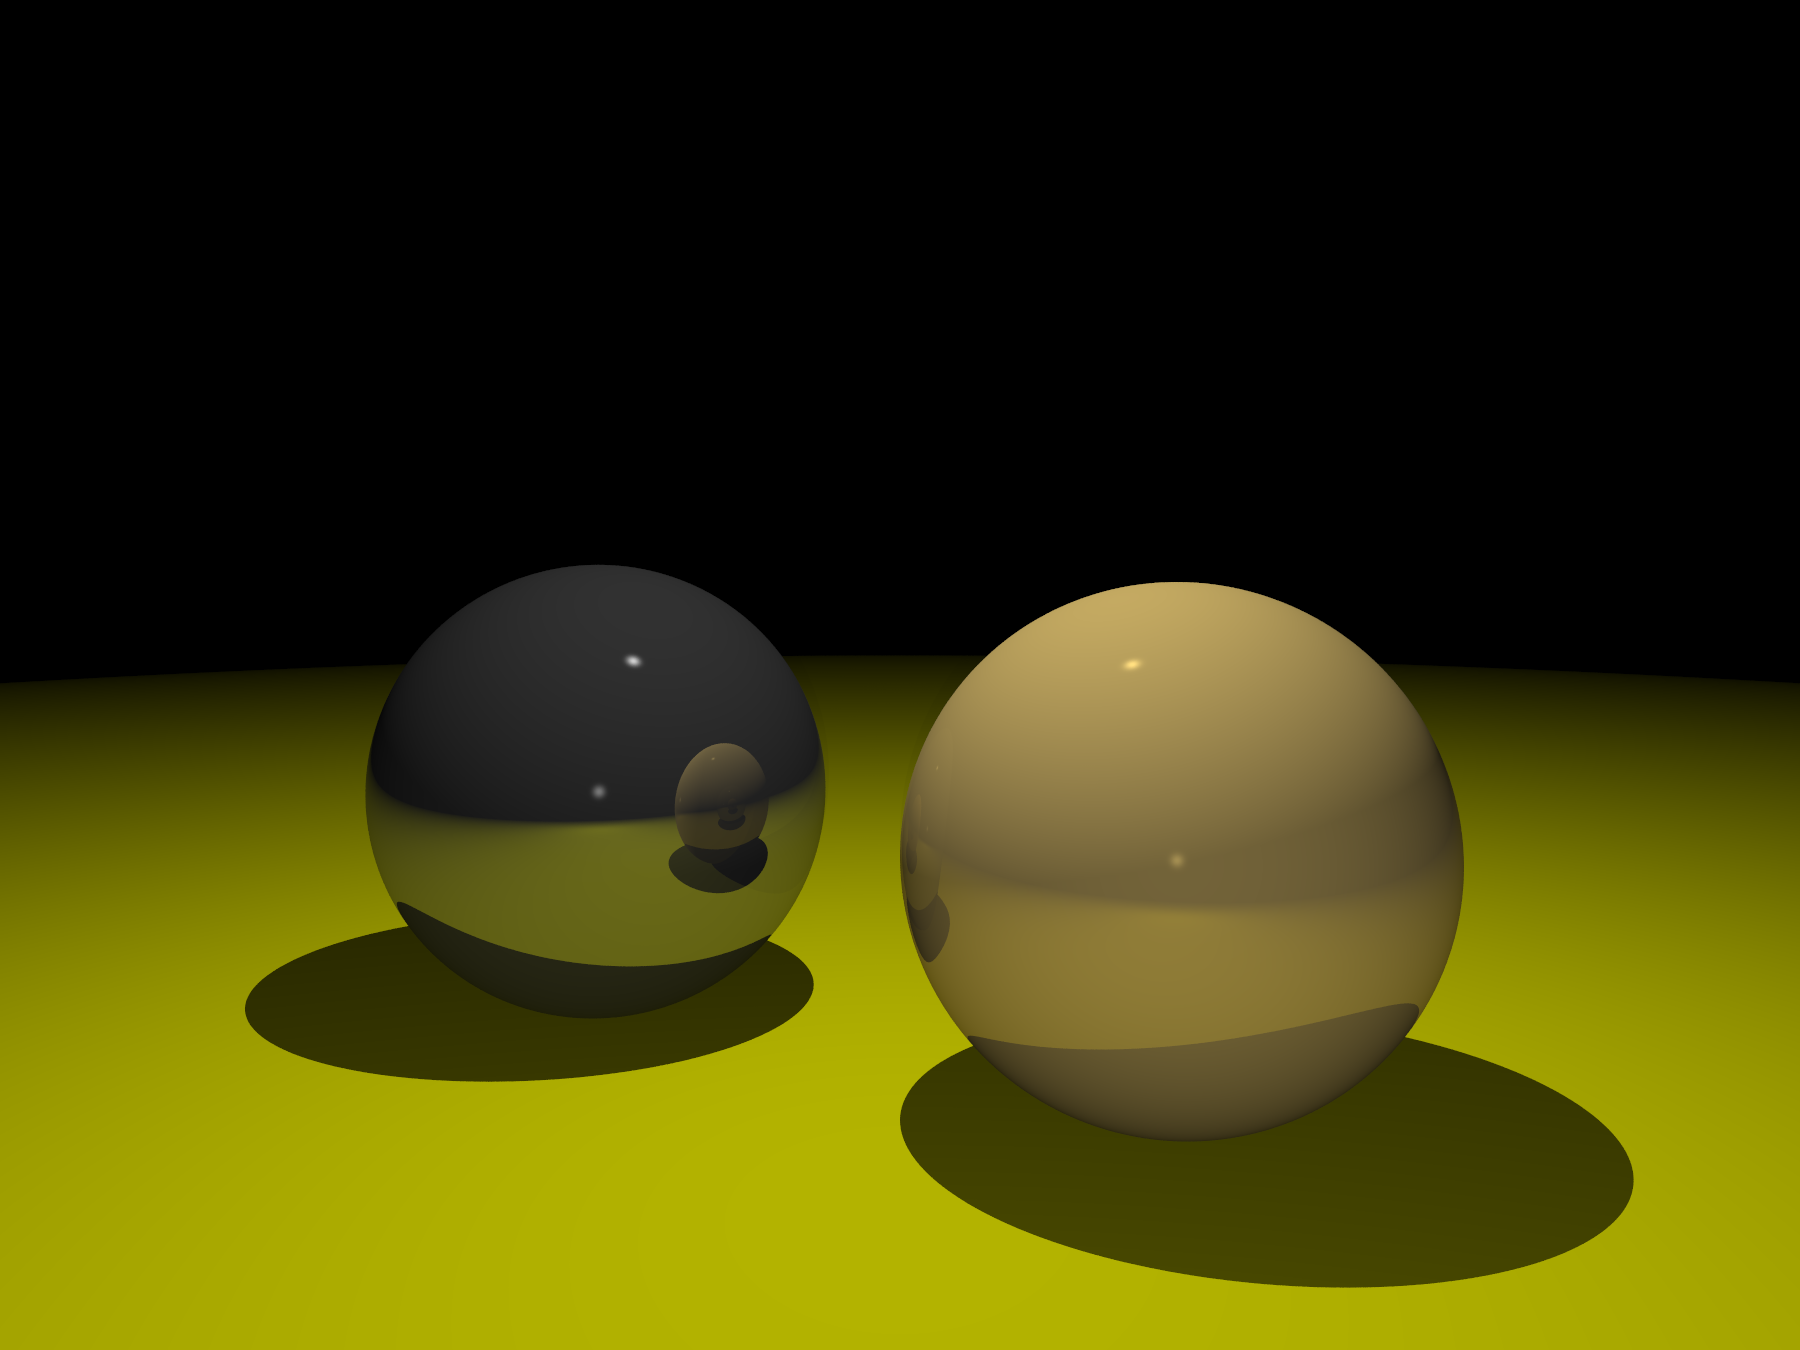
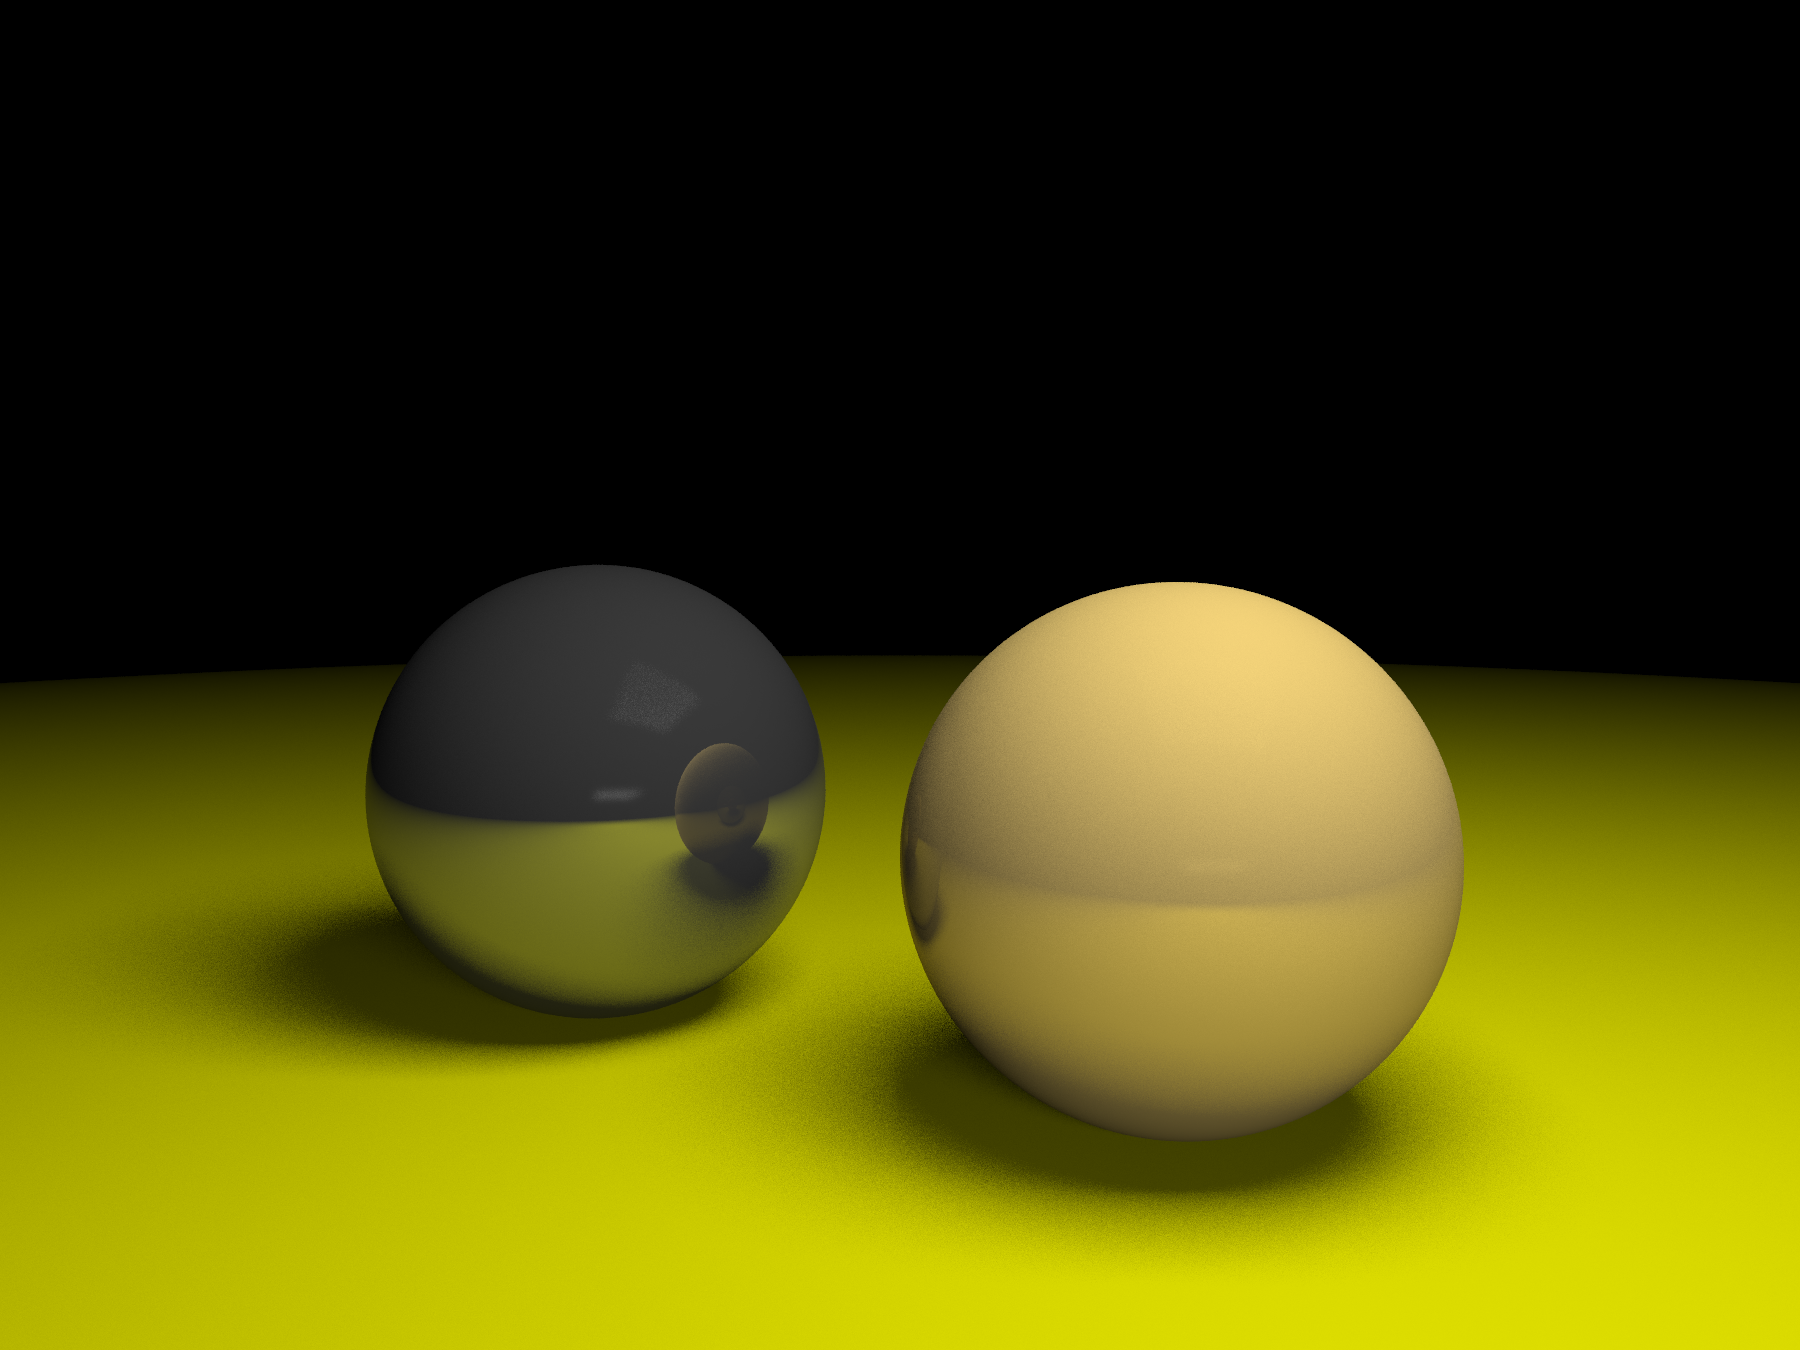
raytracer: area light

Changed region(s): [[0.0622, 0.4044, 1.0, 1.0], [0.4978, 0.5289, 0.5289, 0.6222]]

diff --git a/src/scene.cpp b/src/scene.cpp
@@ -14,6 +14,17 @@ void scene::add_light(const point3& position, const color3& intensity) {
     );
 }
 
+void scene::add_area_light(const point3& position, const color3& intensity, const vec& u, const vec& v) {
+   area_lights.push_back(
+       std::make_shared<area_light>(
+           position,
+           intensity,
+           u,
+           v
+       )
+   );
+}
+
 void scene::add_sphere(const point3& center, double radius, const std::string& name) {
     objects.push_back(
         std::make_shared<sphere>(
@@ -54,45 +65,47 @@ color3 scene::illuminance_v2(const ray& camera_ray, int depth) {
         illum += 0.333 * specular_color * illuminance_v2(rec_value.get_specular_reflected(camera_ray), depth - 1);
     }
 
-    for (auto light : lights) {
-        auto lamp_intensity = light->intensity;
-        auto lamp_vec = light->position - point;
-        auto lamp_ray = ray(point, unit_vector(lamp_vec));
+    for (auto area_light : area_lights) {
+        for (auto light : area_light->sample()) {
+            auto lamp_intensity = light->intensity;
+            auto lamp_vec = light->position - point;
+            auto lamp_ray = ray(point, unit_vector(lamp_vec));
 
-        auto R = lamp_vec.length();
-        auto attenuation = 1.0 / (1.0 + 0.22 * R + 0.20 * R * R);
+            auto R = lamp_vec.length();
+            auto attenuation = 1.0 / (1.0 + 0.22 * R + 0.20 * R * R);
 
-        std::optional<intersection> shadow = hit(lamp_ray, interval{ 0.001, R });
+            std::optional<intersection> shadow = hit(lamp_ray, interval{ 0.001, R });
 
-        if (shadow.has_value()) {
-            continue;
-        }
+            if (shadow.has_value()) {
+                continue;
+            }
 
-        if (ambient_color.length_squared() > 0.001) {
-            illum += ambient_color;
-        }
+            if (ambient_color.length_squared() > 0.001) {
+                illum += ambient_color;
+            }
 
-        if (emissive_color.length_squared() > 0.001) {
-            illum += emissive_color;
-        }
+            if (emissive_color.length_squared() > 0.001) {
+                illum += emissive_color;
+            }
 
-        if (specular_color.length_squared() > 0.001) {
-            auto reflected = rec_value.get_specular_reflected(camera_ray);
+            if (specular_color.length_squared() > 0.001) {
+                auto reflected = rec_value.get_specular_reflected(camera_ray);
 
-            illum += attenuation
-                * lamp_intensity
-                * specular_color
-                * std::pow(
-                    std::max(0.0, dot(lamp_ray.direction(), reflected.direction())),
-                    specular_exponent
-                );
-        }
+                illum += attenuation
+                    * lamp_intensity
+                    * specular_color
+                    * std::pow(
+                        std::max(0.0, dot(lamp_ray.direction(), reflected.direction())),
+                        specular_exponent
+                    );
+            }
 
-        if (diffuse_color.length_squared() > 0.001) {
-            illum += attenuation
-                * lamp_intensity
-                * diffuse_color
-                * std::max(0.0, dot(lamp_ray.direction(), rec_value.normal));
+            if (diffuse_color.length_squared() > 0.001) {
+                illum += attenuation
+                    * lamp_intensity
+                    * diffuse_color
+                    * std::max(0.0, dot(lamp_ray.direction(), rec_value.normal));
+            }
         }
     }
 

diff --git a/src/tech/parser.h b/src/tech/parser.h
@@ -94,7 +94,30 @@ void parser::read_objects(scene& scene, const std::string& filename) {
             }
 
             // Area Light (non-standard)
-           if (tokens[0] == "A") {}
+           if (tokens[0] == "A") {
+                scene.add_area_light(
+                    point3(
+                        std::stod(tokens[1]),   // x
+                        std::stod(tokens[2]),   // y
+                        std::stod(tokens[3])    // z
+                    ),
+                    color3(
+                        std::stod(tokens[4]),   // R
+                        std::stod(tokens[5]),   // G
+                        std::stod(tokens[6])    // B
+                    ),
+                    vec(
+                        std::stod(tokens[7]),   // u
+                        std::stod(tokens[8]),
+                        std::stod(tokens[9])
+                    ),
+                    vec(
+                        std::stod(tokens[10]),  // v
+                        std::stod(tokens[11]),
+                        std::stod(tokens[12])
+                    )
+                );
+           }
 
             // Vertex
             if (tokens[0] == "v") {}

diff --git a/src/scene.h b/src/scene.h
@@ -11,6 +11,7 @@
 #include "material.h"
 #include "sphere.h"
 #include "light.h"
+#include "area_light.h"
 
 const auto MODE_DEPT = "dept";
 const auto MODE_NORM = "norm";
@@ -26,11 +27,13 @@ class scene {
         // void add_vertex(const point3& position, int index);
         // void add_poligon(std::vector<const point3>& vertexes, const std::string& name);
         void add_sphere(const point3& center, double radius, const std::string& name);
+        void add_area_light(const point3& position, const color3& intensity, const vec& u, const vec& v);
         void add_light(const point3& position, const color3& intensity);
         void add_material(std::shared_ptr<material> model);
 
     private:
         std::vector<std::shared_ptr<light>>         lights;
+        std::vector<std::shared_ptr<area_light>>    area_lights;
         std::vector<std::shared_ptr<object>>        objects;
         std::unordered_map<std::string, std::shared_ptr<material>> materials;
 

diff --git a/src/scene/area_light.h b/src/scene/area_light.h
@@ -1,0 +1,38 @@
+#ifndef AREA_LIGHT_H
+#define AREA_LIGHT_H
+
+#include "ray.h"
+
+class area_light {
+    public:
+        point3 position;
+        color3 intensity;
+        vec u;
+        vec v;
+
+        area_light(const point3& position, const color3& intensity, const vec& u, const vec& v)
+            : position(position)
+            , intensity(intensity)
+            , u(u)
+            , v(v) {}
+
+        std::vector<std::shared_ptr<light>> sample(int n = 8) {
+            std::vector<std::shared_ptr<light>> sample = {};
+
+            for (int i = 0; i < 8; i += 1) {
+                sample.push_back(
+                    std::make_shared<light>(
+                        position
+                            + random_double(0.0, 1.0) * u
+                            + random_double(0.0, 1.0) * v,
+                        intensity
+                    )
+                );
+            }
+
+            return sample;
+        }
+};
+
+
+#endif
